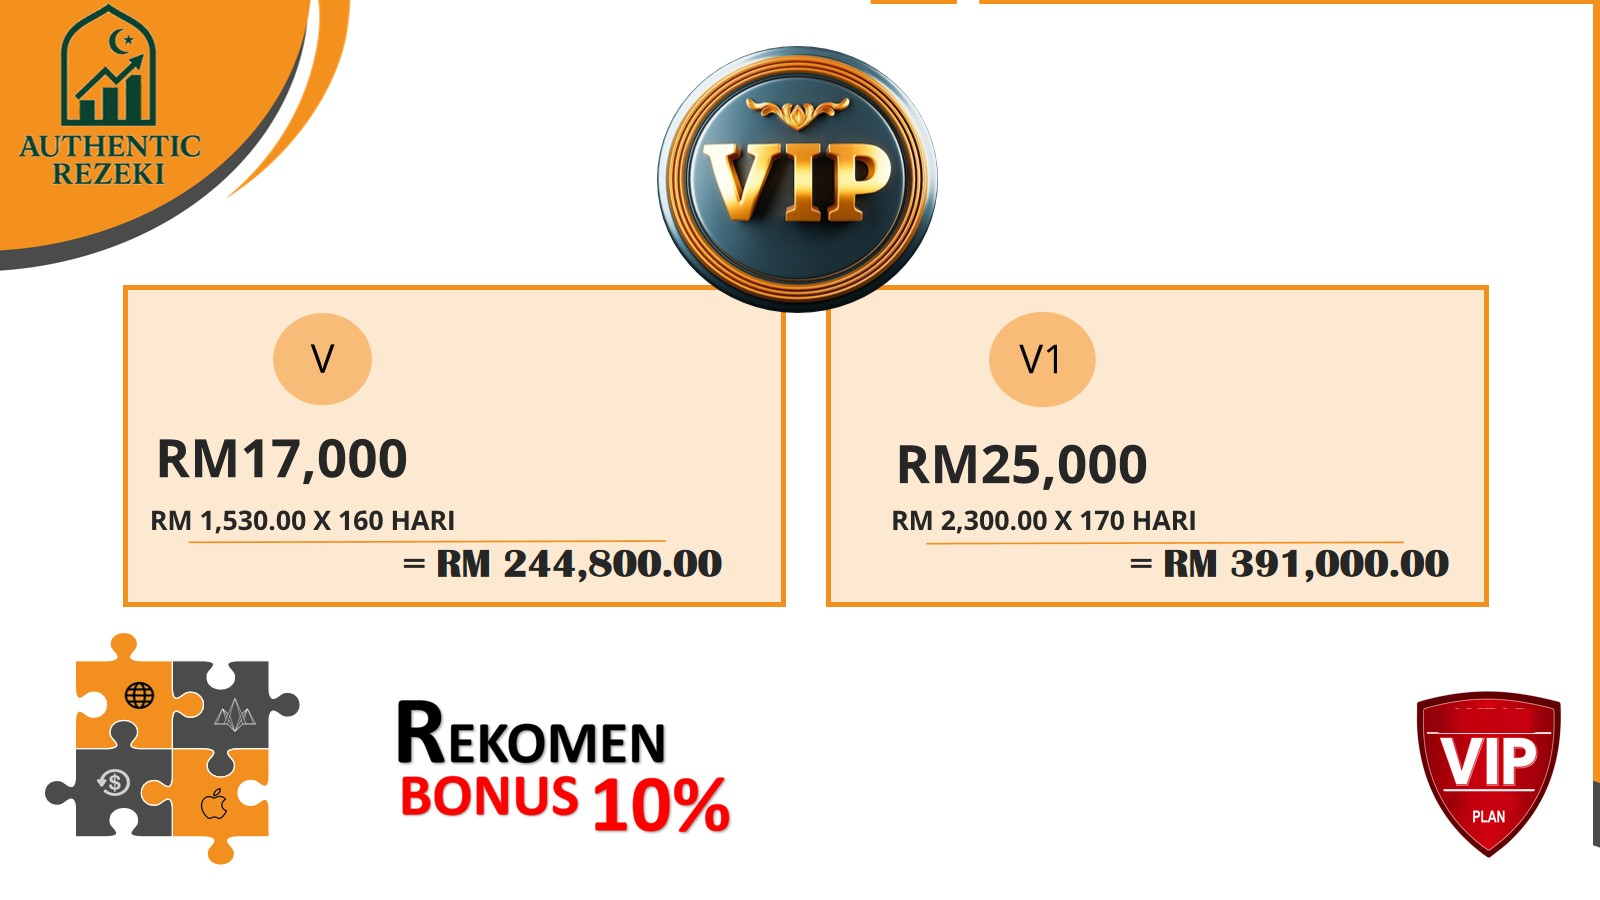
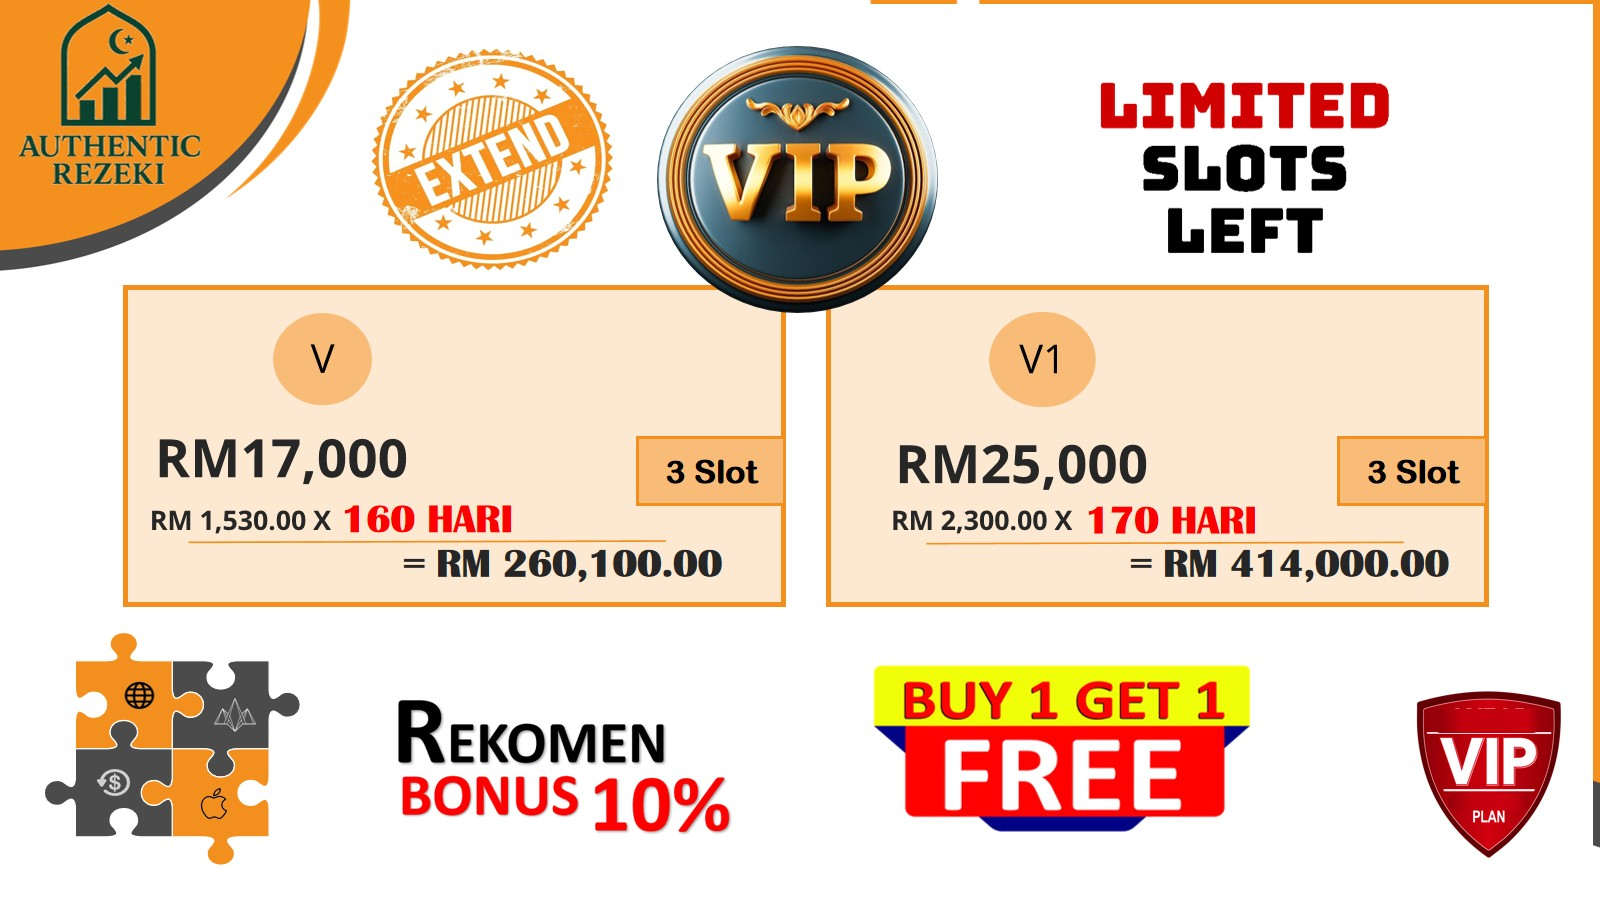
update plan duration

diff --git a/plan.html b/plan.html
@@ -98,52 +98,52 @@
         <div class="flex-container">
             <div class="box center-text">
                 ♻ PLAN RM 200 <br>
-                RM 14 x 100 hari = RM 1,400
+                RM 14 x 110 hari = RM 1,540
             </div>
 
             <div class="box center-text">
                 ♻ PLAN RM 500 <br>
-                RM 38 x 110 hari = RM 4,180
+                RM 38 x 120 hari = RM 4,560
             </div>
 
             <div class="box center-text">
                 ♻ PLAN RM 1200 <br>
-                RM 95 x 115 hari = RM 10,925
+                RM 95 x 125 hari = RM 11,875
             </div>
             
             <div class="box center-text">
                 ♻ PLAN RM 2000 <br>
-                RM 160 x 125 hari = RM 20,000
+                RM 160 x 135 hari = RM 21,600
             </div>
             
             <div class="box center-text">
                 ♻ PLAN RM 3000 <br>
-                RM 250 x 130 hari = RM 32,500
+                RM 250 x 140 hari = RM 35,000
             </div>
             
             <div class="box center-text">
                 ♻ PLAN RM 6000 <br>
-                RM 520 x 140 hari = RM 72,800
+                RM 520 x 150 hari = RM 78,000
             </div>
             
             <div class="box center-text">
                 ♻ PLAN RM 11000 <br>
-                RM 960 x 150 hari = RM 144,000
+                RM 960 x 150 hari = RM 153,600
             </div>
             
             <div class="box center-text">
                 ♻ PLAN RM 17000 <br>
-                RM 1530 x 160 hari = RM 244,800
+                RM 1530 x 160 hari = RM 260,100
             </div>
             
             <div class="box center-text">
                 ♻ PLAN RM 25000 <br>
-                RM 2300 x 170 hari = RM 391,000
+                RM 2300 x 170 hari = RM 414,000
             </div>
             
             <div class="box center-text">
                 ♻ PLAN RM 50000 <br>
-                RM 5000 x 200 hari = RM 1,050,000
+                RM 5000 x 210 hari = RM 1,050,000
             </div>
             
         </div>
